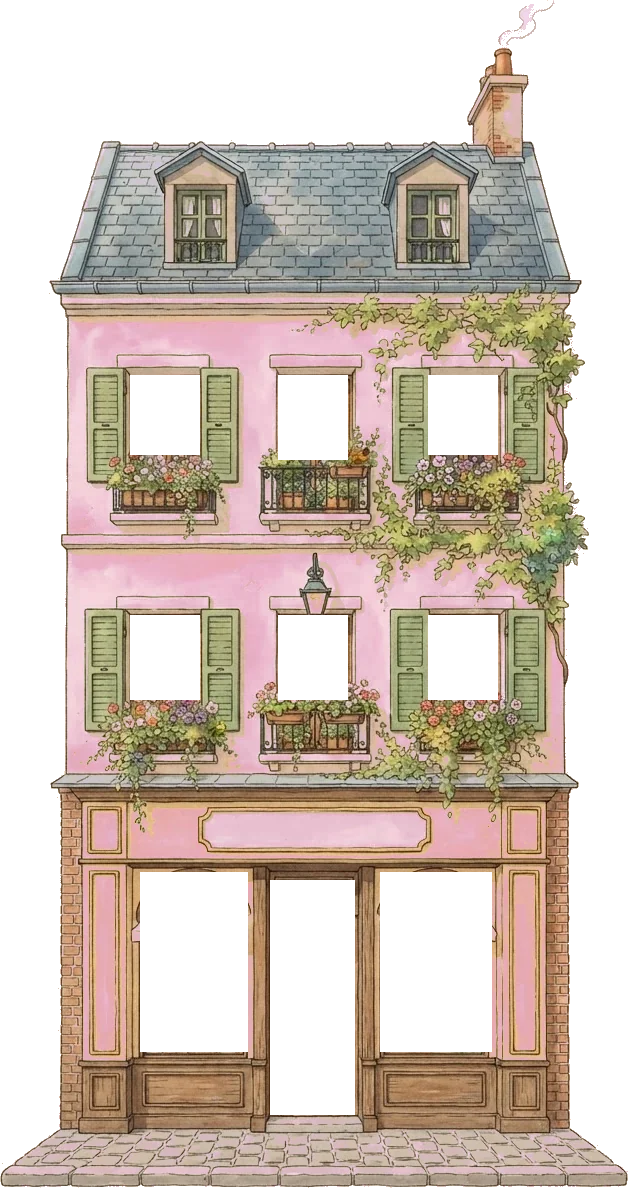
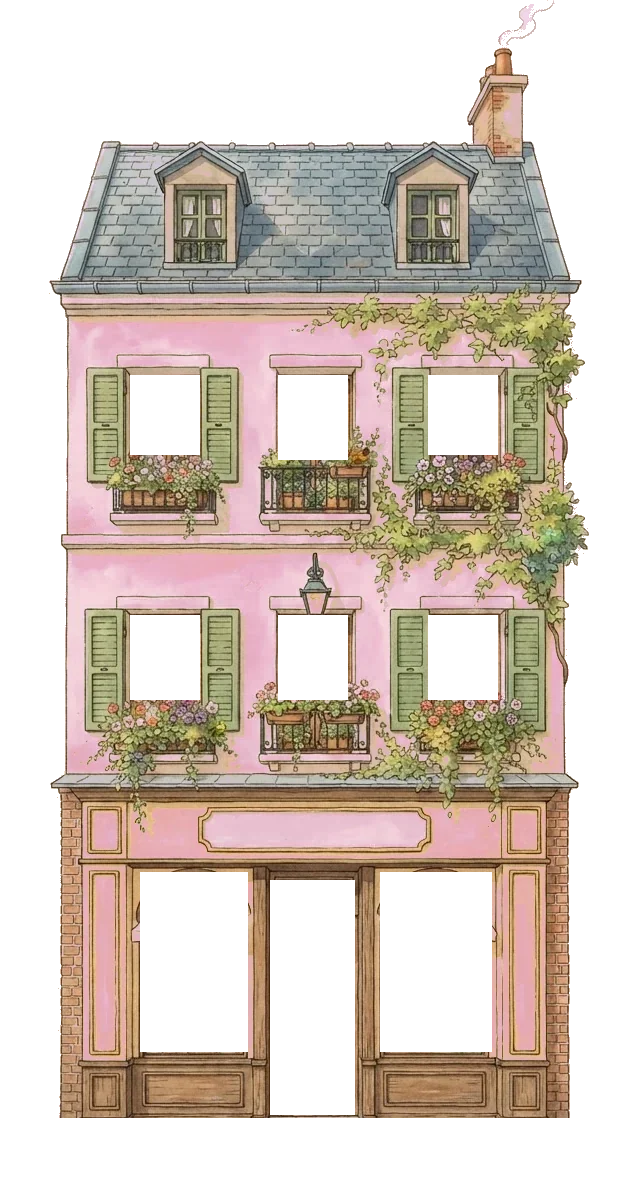
Nouveau Montmartre : la boutique sans le bout de trottoir peint du dessin, posée au sol
Claude-Session: https://claude.ai/code/session_01WYc8bcxVUTnPR8YQxCHawi

Changed region(s): [[0.0, 0.9343, 1.0, 1.0]]

diff --git a/public/montmartre2.js b/public/montmartre2.js
@@ -31,7 +31,8 @@ function construireMontmartre2(A, L, scene) {
   let nRel = 0;
   /* (10.241) des variantes de couleur pour ne pas voir deux fois la même maison : le mur (et la devanture) repeints, le reste du dessin intact */
   const VAR = { fac1: [null, 0xf4ccc4, 0xd6e4bc, 0xc8daec], fac3: [null, 0xf0e0b0, 0xd0d6e0, 0xcee6d4], fac2: [[null, 0x7a2a30], [0xeee2c8, 0x2a5c3e], [0xecc8c4, 0x283862], [0xd6d6d2, 0x262428]] };
-  const relief = (F, g, v = 0) => { const d = DEF[F], IW = d.IW, IH = d.IH, FW = IW * s, FH = IH * s, X = (px) => (px - IW / 2) * s, Y = (py) => (IH - py) * s, murC = mat({ color: v ? VAR[F][v] : d.mur, roughness: .9 }), embM = mat({ color: new THREE.Color(d.mur).multiplyScalar(.82), roughness: .95 }), appM = mat({ color: 0xe8dcc0 });
+  const BASE = { fac1: 1118 };   /* (la boutique : Gemini avait peint un bout de trottoir sous la façade — coupé, et la façade descendue jusqu'au sol) */
+  const relief = (F, g0, v = 0) => { const g = new THREE.Group(); g0.add(g); if (BASE[F]) g.position.y = -(DEF[F].IH - BASE[F]) * s; const d = DEF[F], IW = d.IW, IH = d.IH, FW = IW * s, FH = IH * s, X = (px) => (px - IW / 2) * s, Y = (py) => (IH - py) * s, murC = mat({ color: v ? VAR[F][v] : d.mur, roughness: .9 }), embM = mat({ color: new THREE.Color(d.mur).multiplyScalar(.82), roughness: .95 }), appM = mat({ color: 0xe8dcc0 });
     const plan = (t, x0, y0, x1, y1, z, o = {}) => { const m = new THREE.Mesh(new THREE.PlaneGeometry((x1 - x0) * s, (y1 - y0) * s), mat({ map: t, transparent: true, alphaTest: .4, side: THREE.DoubleSide, ...o })); m.position.set(X((x0 + x1) / 2), Y((y0 + y1) / 2), z); m.receiveShadow = true; g.add(m); return m; };
     plan(txF(F + "_perce" + (v ? "_v" + v : "")), 0, 0, IW, IH, 0, { bumpMap: txF(F + "_relief", false), bumpScale: 2.2 });
     box(FW * .98, FH * .74, 6, murC, 0, FH * .37, -8.2, g); for (const sg of [-1, 1]) box(.05, Y(d.toitY), 5.2, murC, sg * FW * .49, Y(d.toitY) / 2, -2.6, g);
